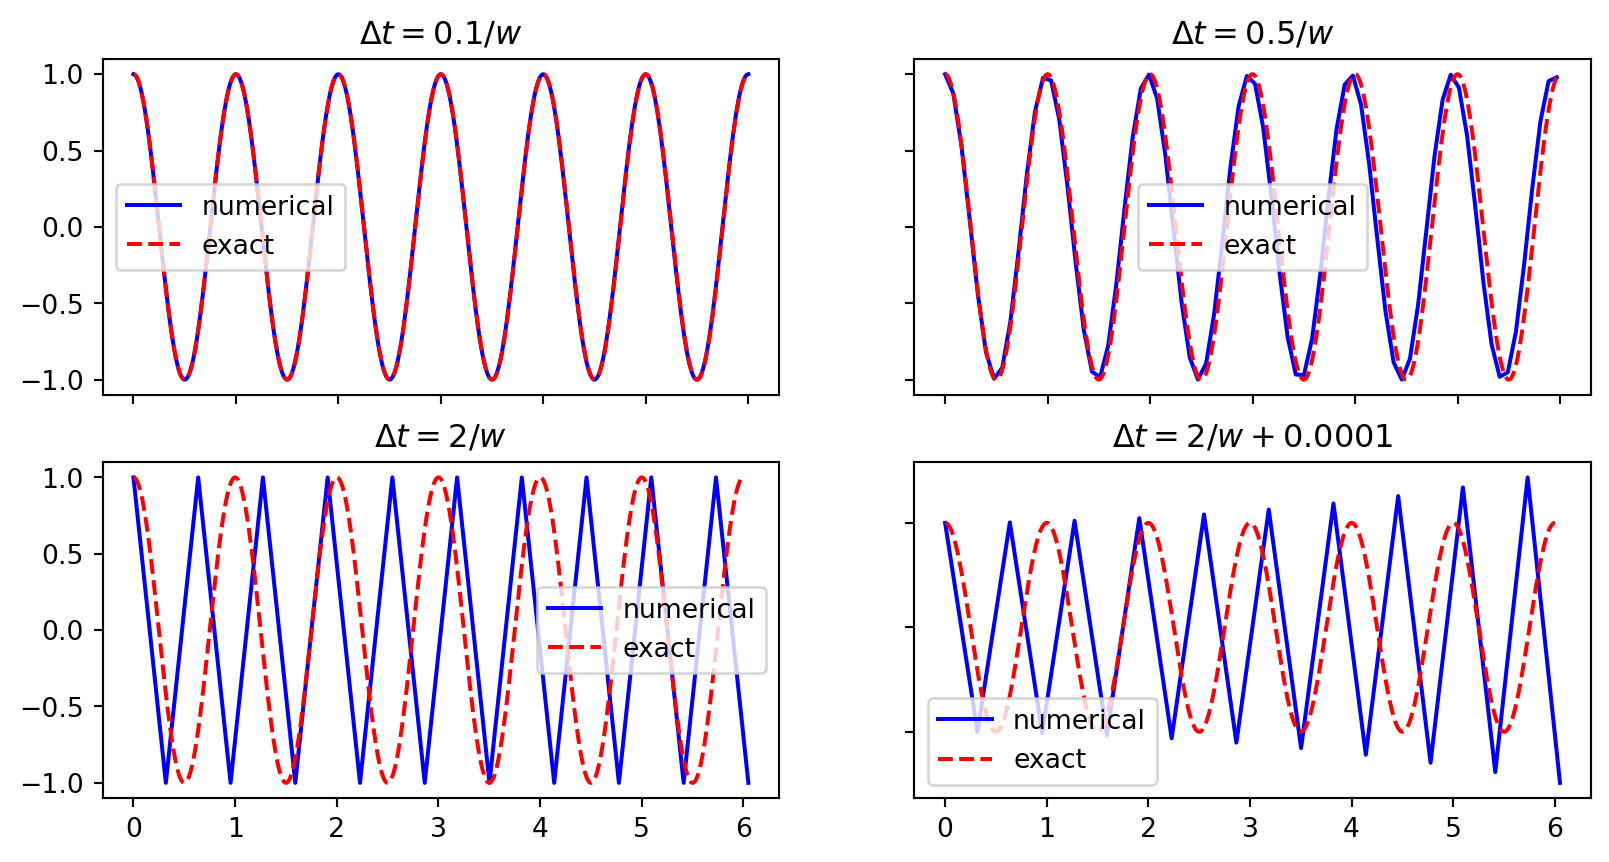
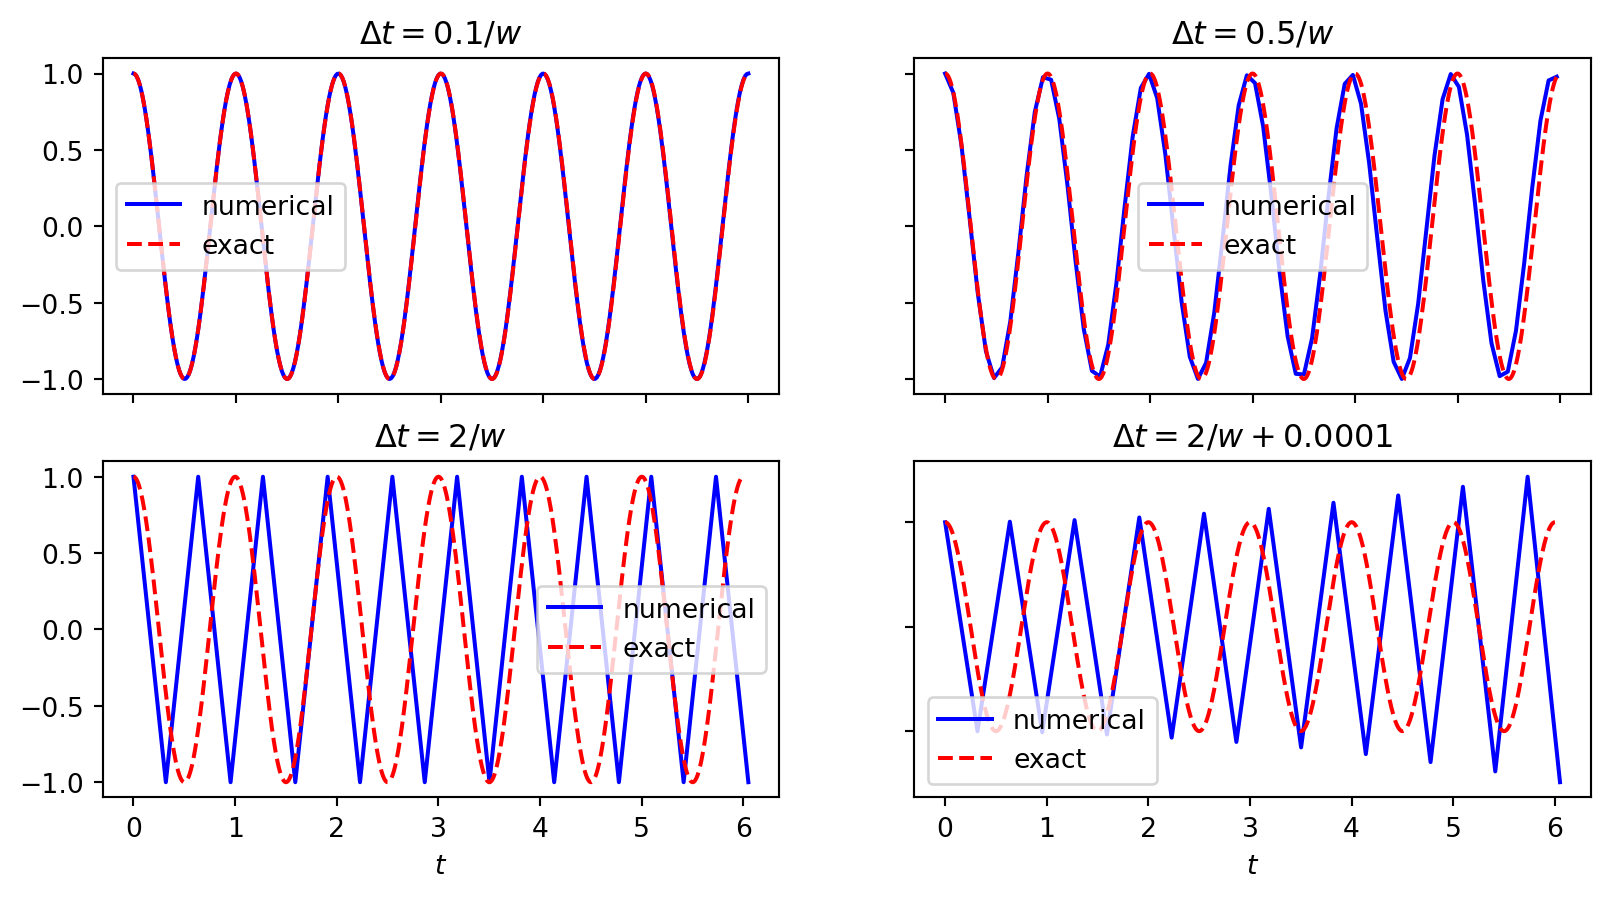
Update documentation

diff --git a/vibration.html b/vibration.html
@@ -537,7 +537,7 @@ u^1 = u^0 - \frac{1}{2} \Delta t^2 \omega^2 u^0
 </ul>
 <div class="fragment">
 <p>More precisely expressed in Python:</p>
-<div id="4ab1455f" class="cell" data-execution_count="2">
+<div id="13fe9b2e" class="cell" data-execution_count="2">
 <div class="sourceCode cell-code" id="cb1"><pre class="sourceCode numberSource python number-lines code-with-copy"><code class="sourceCode python"><span id="cb1-1"><a></a>T <span class="op">=</span> <span class="dv">1</span></span>
 <span id="cb1-2"><a></a>Nt <span class="op">=</span> <span class="dv">10</span></span>
 <span id="cb1-3"><a></a>I <span class="op">=</span> <span class="dv">1</span></span>
@@ -577,7 +577,7 @@ u^{\prime}(t_n) \approx \frac{u^{n+1}-u^{n-1}}{2\Delta t}
 </div>
 <div class="fragment">
 <p>With vectorization:</p>
-<div id="685ac5f0" class="cell" data-execution_count="3">
+<div id="a96015d1" class="cell" data-execution_count="3">
 <div class="sourceCode cell-code" id="cb2"><pre class="sourceCode numberSource python number-lines code-with-copy"><code class="sourceCode python"><span id="cb2-1"><a></a>du <span class="op">=</span> np.zeros(Nt<span class="op">+</span><span class="dv">1</span>)</span>
 <span id="cb2-2"><a></a>du[<span class="dv">1</span>:<span class="op">-</span><span class="dv">1</span>] <span class="op">=</span> (u[<span class="dv">2</span>:] <span class="op">-</span> u[:<span class="op">-</span><span class="dv">2</span>]) <span class="op">/</span> (<span class="dv">2</span><span class="op">*</span>dt)  <span class="co"># second order accurate</span></span>
 <span id="cb2-3"><a></a>du[<span class="dv">0</span>] <span class="op">=</span> <span class="dv">0</span>                             <span class="co"># exact from initial condition</span></span>
@@ -587,7 +587,7 @@ u^{\prime}(t_n) \approx \frac{u^{n+1}-u^{n-1}}{2\Delta t}
 </section>
 <section id="implementation" class="slide level2 smaller">
 <h2>Implementation</h2>
-<div id="471e41db" class="cell" data-execution_count="4">
+<div id="f4c2d1ae" class="cell" data-execution_count="4">
 <div class="sourceCode cell-code" id="cb3"><pre class="sourceCode numberSource python number-lines code-with-copy"><code class="sourceCode python"><span id="cb3-1"><a></a><span class="kw">def</span> solver(I, w, dt, T):</span>
 <span id="cb3-2"><a></a>    <span class="co">"""</span></span>
 <span id="cb3-3"><a></a><span class="co">    Solve u'' + w**2*u = 0 for t in (0,T], u(0)=I and u'(0)=0,</span></span>
@@ -610,7 +610,7 @@ u^{\prime}(t_n) \approx \frac{u^{n+1}-u^{n-1}}{2\Delta t}
 </section>
 <section id="visualization" class="slide level2 smaller">
 <h2>Visualization</h2>
-<div id="ba29ec6f" class="cell" data-execution_count="5">
+<div id="11592c68" class="cell" data-execution_count="5">
 <div class="sourceCode cell-code" id="cb4"><pre class="sourceCode numberSource python number-lines code-with-copy"><code class="sourceCode python"><span id="cb4-1"><a></a><span class="kw">def</span> visualize(u, t, I, w):</span>
 <span id="cb4-2"><a></a>    plt.plot(t, u, <span class="st">'r--o'</span>)</span>
 <span id="cb4-3"><a></a>    t_fine <span class="op">=</span> np.linspace(<span class="dv">0</span>, t[<span class="op">-</span><span class="dv">1</span>], <span class="dv">1001</span>)  <span class="co"># very fine mesh for u_e</span></span>
@@ -627,7 +627,7 @@ u^{\prime}(t_n) \approx \frac{u^{n+1}-u^{n-1}}{2\Delta t}
 </section>
 <section id="main-program" class="slide level2 smaller">
 <h2>Main program</h2>
-<div id="428ab104" class="cell" data-execution_count="6">
+<div id="92248da3" class="cell" data-execution_count="6">
 <div class="sourceCode cell-code" id="cb5"><pre class="sourceCode numberSource python number-lines code-with-copy"><code class="sourceCode python"><span id="cb5-1"><a></a>I <span class="op">=</span> <span class="dv">1</span></span>
 <span id="cb5-2"><a></a>w <span class="op">=</span> <span class="dv">2</span><span class="op">*</span>np.pi</span>
 <span id="cb5-3"><a></a>num_periods <span class="op">=</span> <span class="dv">6</span></span>
@@ -647,7 +647,7 @@ u^{\prime}(t_n) \approx \frac{u^{n+1}-u^{n-1}}{2\Delta t}
 </section>
 <section id="various-timestep" class="slide level2 smaller">
 <h2>Various timestep</h2>
-<div id="cd14b1d0" class="cell" data-execution_count="7">
+<div id="f30281df" class="cell" data-execution_count="7">
 <div class="cell-output cell-output-display">
 <div>
 <figure>
@@ -745,12 +745,12 @@ u(t_n) = I \cos (\tilde{\omega} t_n)
 <p>How good is the approximation <span class="math inline">\(\tilde{\omega} = \pm \frac{2}{\Delta t} \sin^{-1} \left( \frac{\omega  \Delta t }{2} \right)\)</span> ?</p>
 <div class="fragment">
 <p>We can easily use a Taylor series expansion for small <span class="math inline">\(h=\Delta t\)</span></p>
-<div id="69fba782" class="cell" data-execution_count="8">
+<div id="cc7eb690" class="cell" data-execution_count="8">
 <div class="sourceCode cell-code" id="cb6"><pre class="sourceCode numberSource python number-lines code-with-copy"><code class="sourceCode python"><span id="cb6-1"><a></a><span class="im">import</span> sympy <span class="im">as</span> sp </span>
 <span id="cb6-2"><a></a>h, w <span class="op">=</span> sp.symbols(<span class="st">'h,w'</span>)</span>
 <span id="cb6-3"><a></a>w_tilde <span class="op">=</span> sp.asin(w<span class="op">*</span>h<span class="op">/</span><span class="dv">2</span>).series(h, <span class="dv">0</span>, <span class="dv">4</span>)<span class="op">*</span><span class="dv">2</span><span class="op">/</span>h</span>
 <span id="cb6-4"><a></a>sp.simplify(w_tilde)</span></code><button title="Copy to Clipboard" class="code-copy-button"><i class="bi"></i></button></pre></div>
-<div class="cell-output cell-output-display cell-output-markdown" data-execution_count="8">
+<div class="cell-output cell-output-display cell-output-markdown" data-execution_count="83">
 <p><span class="math inline">\(\displaystyle w + \frac{h^{2} w^{3}}{24} + O\left(h^{3}\right)\)</span></p>
 </div>
 </div>
@@ -832,9 +832,9 @@ e^n = -2I\sin\left(n \Delta t\frac{1}{2}\left( \omega - \tilde\omega\right)\righ
 \]</span></p>
 <div class="fragment">
 <p>The limit can be computed using L’Hopital’s rule or simply by asking <code>sympy</code> or <a href="http://www.wolframalpha.com/input/?i=%282%2Fx%29*asin%28w*x%2F2%29+as+x-%3E0">WolframAlpha</a>. Sympy is easier:</p>
-<div id="5762c351" class="cell" data-execution_count="9">
+<div id="4a926fce" class="cell" data-execution_count="9">
 <div class="sourceCode cell-code" id="cb7"><pre class="sourceCode numberSource python number-lines code-with-copy"><code class="sourceCode python"><span id="cb7-1"><a></a>sp.limit((<span class="dv">2</span><span class="op">/</span>h)<span class="op">*</span>sp.asin(w<span class="op">*</span>h<span class="op">/</span><span class="dv">2</span>), h, <span class="dv">0</span>, <span class="bu">dir</span><span class="op">=</span><span class="st">'+'</span>)</span></code><button title="Copy to Clipboard" class="code-copy-button"><i class="bi"></i></button></pre></div>
-<div class="cell-output cell-output-display cell-output-markdown" data-execution_count="9">
+<div class="cell-output cell-output-display cell-output-markdown" data-execution_count="84">
 <p><span class="math inline">\(\displaystyle w\)</span></p>
 </div>
 </div>
@@ -864,10 +864,10 @@ e^n = -2I\sin\left(n \Delta t\frac{1}{2}\left( \omega - \tilde\omega\right)\righ
 <div class="column">
 <p>No! For <span class="math inline">\(\Im(y) &lt; 0\)</span> we have that <span class="math inline">\(|e^{iy}| &gt; 1\)</span>.</p>
 </div><div class="column">
-<div id="f459b108" class="cell" data-execution_count="10">
+<div id="ee062f77" class="cell" data-execution_count="10">
 <div class="sourceCode cell-code" id="cb8"><pre class="sourceCode numberSource python number-lines code-with-copy"><code class="sourceCode python"><span id="cb8-1"><a></a>y <span class="op">=</span> <span class="op">-</span><span class="ot">0.001j</span></span>
 <span id="cb8-2"><a></a><span class="bu">abs</span>(sp.exp(<span class="ot">1j</span><span class="op">*</span>y)) </span></code><button title="Copy to Clipboard" class="code-copy-button"><i class="bi"></i></button></pre></div>
-<div class="cell-output cell-output-display cell-output-markdown" data-execution_count="10">
+<div class="cell-output cell-output-display cell-output-markdown" data-execution_count="85">
 <p><span class="math inline">\(\displaystyle 1.00100050016671\)</span></p>
 </div>
 </div>
@@ -879,9 +879,9 @@ e^n = -2I\sin\left(n \Delta t\frac{1}{2}\left( \omega - \tilde\omega\right)\righ
 </div>
 <div class="fragment">
 <p>Yes! We can easily check that if <span class="math inline">\(|x|&gt;1\)</span> then <span class="math inline">\(\sin^{-1}(x)\)</span> has a negative imaginary part:</p>
-<div id="5223b96c" class="cell" data-execution_count="11">
+<div id="b34cca47" class="cell" data-execution_count="11">
 <div class="sourceCode cell-code" id="cb9"><pre class="sourceCode numberSource python number-lines code-with-copy"><code class="sourceCode python"><span id="cb9-1"><a></a>sp.asin(<span class="fl">1.01</span>)</span></code><button title="Copy to Clipboard" class="code-copy-button"><i class="bi"></i></button></pre></div>
-<div class="cell-output cell-output-display cell-output-markdown" data-execution_count="11">
+<div class="cell-output cell-output-display cell-output-markdown" data-execution_count="86">
 <p><span class="math inline">\(\displaystyle 1.5707963267949 - 0.141303769485649 i\)</span></p>
 </div>
 </div>
@@ -907,11 +907,11 @@ e^n = -2I\sin\left(n \Delta t\frac{1}{2}\left( \omega - \tilde\omega\right)\righ
 </section>
 <section id="remember-the-initial-plots" class="slide level2 smaller">
 <h2>Remember the initial plots</h2>
-<div id="8144a266" class="cell" data-execution_count="12">
+<div id="031c137f" class="cell" data-execution_count="12">
 <div class="cell-output cell-output-display">
 <div>
 <figure>
-<p><img data-src="vibration_files/figure-revealjs/cell-13-output-1.png" width="805" height="431"></p>
+<p><img data-src="vibration_files/figure-revealjs/cell-13-output-1.png" width="805" height="449"></p>
 </figure>
 </div>
 </div>
@@ -920,11 +920,11 @@ e^n = -2I\sin\left(n \Delta t\frac{1}{2}\left( \omega - \tilde\omega\right)\righ
 </section>
 <section id="about-the-stability-limit" class="slide level2 smaller">
 <h2>About the stability limit</h2>
-<div id="64d8c8df" class="cell" data-execution_count="13">
+<div id="a463cbf8" class="cell" data-execution_count="13">
 <div class="cell-output cell-output-display">
 <div>
 <figure>
-<p><img data-src="vibration_files/figure-revealjs/cell-14-output-1.png" width="813" height="431"></p>
+<p><img data-src="vibration_files/figure-revealjs/cell-14-output-1.png" width="813" height="449"></p>
 </figure>
 </div>
 </div>
@@ -966,11 +966,11 @@ A = 1 - \frac{p^2}{2} \pm \frac{p}{2}\sqrt{p^2-4}
 A &lt; -1
 \]</span></p>
 <p>Check:</p>
-<div id="f8235970" class="cell" data-execution_count="14">
+<div id="0a21842d" class="cell" data-execution_count="14">
 <div class="sourceCode cell-code" id="cb10"><pre class="sourceCode numberSource python number-lines code-with-copy"><code class="sourceCode python"><span id="cb10-1"><a></a>p <span class="op">=</span> sp.Symbol(<span class="st">'p'</span>) </span>
 <span id="cb10-2"><a></a>f <span class="op">=</span> <span class="dv">1</span> <span class="op">-</span> p<span class="op">**</span><span class="dv">2</span><span class="op">/</span><span class="dv">2</span> <span class="op">-</span> p<span class="op">/</span><span class="dv">2</span><span class="op">*</span>sp.sqrt(p<span class="op">**</span><span class="dv">2</span><span class="op">-</span><span class="dv">4</span>)</span>
 <span id="cb10-3"><a></a>f.subs(p, <span class="fl">2.01</span>).n() </span></code><button title="Copy to Clipboard" class="code-copy-button"><i class="bi"></i></button></pre></div>
-<div class="cell-output cell-output-display cell-output-markdown" data-execution_count="14">
+<div class="cell-output cell-output-display cell-output-markdown" data-execution_count="89">
 <p><span class="math inline">\(\displaystyle -1.22130109316473\)</span></p>
 </div>
 </div>
@@ -1022,12 +1022,11 @@ A &lt; -1
 <p>We can draw three important conclusions:</p>
 <div>
 <ul>
-<li class="fragment">The key parameter in the formulas is <span class="math inline">\(p=\omega\Delta t\)</span> (dimensionless)
+<li class="fragment">The key parameter in the formulas is <span class="math inline">\(p=\omega\Delta t\)</span> or <span class="math inline">\(\tilde{p} = \tilde{\omega} \Delta t\)</span> (dimensionless)
 <ul>
-<li class="fragment">Period of oscillations: <span class="math inline">\(P=2\pi/\omega\)</span></li>
-<li class="fragment">Number of time steps per period: <span class="math inline">\(N_P=P/\Delta t\)</span></li>
-<li class="fragment"><span class="math inline">\(\Rightarrow\ p=\omega\Delta t = 2\pi/ N_P \sim 1/N_P\)</span> so the critical parameter is really the number of time steps per period.</li>
-<li class="fragment">The smallest possible <span class="math inline">\(N_P\)</span> is 2 <span class="math inline">\(\Rightarrow\)</span> <span class="math inline">\(p\in (0,\pi]\)</span></li>
+<li class="fragment">Period of oscillations: <span class="math inline">\(P=2\pi/\omega\)</span> vs numerical <span class="math inline">\(\tilde{P}=2 \pi / \tilde{\omega}\)</span></li>
+<li class="fragment">Number of time steps per period: <span class="math inline">\(N_P=P/\Delta t\)</span> vs <span class="math inline">\(\tilde{N}_P =\tilde{P}/\Delta t\)</span></li>
+<li class="fragment">At stability limit <span class="math inline">\(\omega = 2/\Delta t\)</span> and <span class="math inline">\(\tilde{\omega}=\pi/\Delta t\)</span> <span class="math inline">\(\Rightarrow P = \pi \Delta t\)</span> and <span class="math inline">\(\tilde{P} = 2 \Delta t\)</span>. We get <span class="math inline">\(\tilde{N}_P = \tilde{P}/\Delta t = 2\)</span> and the critical parameter is really the number of time steps per numerical period.</li>
 </ul></li>
 <li class="fragment">For <span class="math inline">\(p\leq 2\)</span> the amplitude of <span class="math inline">\(u^n\)</span> is constant (stable solution)</li>
 <li class="fragment"><span class="math inline">\(u^n\)</span> has a relative frequency error <span class="math inline">\(\tilde\omega/\omega \approx 1 + \frac{1}{24}p^2\)</span>, making numerical peaks occur too early. This is also called a <strong>phase error</strong>, or a <strong>dispersive error</strong>.</li>
@@ -1037,7 +1036,7 @@ A &lt; -1
 <section id="convergence-rates" class="slide level2 smaller">
 <h2>Convergence rates</h2>
 <p>Lets compute the convergence rate for our solver. However, let it also be possible to choose the numerical frequency <span class="math inline">\(\omega(1-\omega^2\Delta t^2/24)\)</span></p>
-<div id="fb970171" class="cell" data-execution_count="15">
+<div id="7c8a6466" class="cell" data-execution_count="15">
 <div class="sourceCode cell-code" id="cb11"><pre class="sourceCode numberSource python number-lines code-with-copy"><code class="sourceCode python"><span id="cb11-1"><a></a><span class="kw">def</span> solver_adjust(I, w, dt, T, adjust_w<span class="op">=</span><span class="va">False</span>):</span>
 <span id="cb11-2"><a></a>    Nt <span class="op">=</span> <span class="bu">int</span>(T<span class="op">/</span>dt)</span>
 <span id="cb11-3"><a></a>    u <span class="op">=</span> np.zeros(Nt<span class="op">+</span><span class="dv">1</span>)</span>
@@ -1064,7 +1063,7 @@ A &lt; -1
 <p><span class="math display">\[
 r = \frac{\log {\frac{E_{i-1}}{E_i}}}{\log {\frac{\Delta t_{i-1}}{\Delta t_i}}}
 \]</span></p>
-<div id="7de81293" class="cell" data-execution_count="16">
+<div id="60525858" class="cell" data-execution_count="16">
 <div class="sourceCode cell-code" id="cb12"><pre class="sourceCode numberSource python number-lines code-with-copy"><code class="sourceCode python"><span id="cb12-1"><a></a><span class="kw">def</span> convergence_rates(m, num_periods<span class="op">=</span><span class="dv">8</span>, w<span class="op">=</span><span class="fl">0.35</span>, I<span class="op">=</span><span class="fl">0.3</span>, adjust_w<span class="op">=</span><span class="va">False</span>):</span>
 <span id="cb12-2"><a></a>    P <span class="op">=</span> <span class="dv">2</span><span class="op">*</span>np.pi<span class="op">/</span>w</span>
 <span id="cb12-3"><a></a>    dt <span class="op">=</span> <span class="dv">2</span> <span class="op">/</span> w    <span class="co"># Initial dt is maximum time step for stability</span></span>
@@ -1085,9 +1084,9 @@ r = \frac{\log {\frac{E_{i-1}}{E_i}}}{\log {\frac{\Delta t_{i-1}}{\Delta t_i}}}
 <section id="try-it" class="slide level2 smaller">
 <h2>Try it!</h2>
 <p>Print the computed convergence rates</p>
-<div id="96f06106" class="cell" data-execution_count="17">
+<div id="7437621c" class="cell" data-execution_count="17">
 <div class="sourceCode cell-code" id="cb13"><pre class="sourceCode numberSource python number-lines code-with-copy"><code class="sourceCode python"><span id="cb13-1"><a></a>convergence_rates(<span class="dv">5</span>, w<span class="op">=</span><span class="fl">0.5</span>, I<span class="op">=</span><span class="dv">1</span>)[<span class="dv">0</span>]</span></code><button title="Copy to Clipboard" class="code-copy-button"><i class="bi"></i></button></pre></div>
-<div class="cell-output cell-output-display" data-execution_count="17">
+<div class="cell-output cell-output-display" data-execution_count="92">
 <pre><code>[0.5812225474381454,
  1.9588768683386732,
  2.0128151185701406,
@@ -1095,16 +1094,16 @@ r = \frac{\log {\frac{E_{i-1}}{E_i}}}{\log {\frac{\Delta t_{i-1}}{\Delta t_i}}}
 </div>
 </div>
 <p>Adjusted solver:</p>
-<div id="8c9fe57d" class="cell" data-execution_count="18">
+<div id="d4ba9a66" class="cell" data-execution_count="18">
 <div class="sourceCode cell-code" id="cb15"><pre class="sourceCode numberSource python number-lines code-with-copy"><code class="sourceCode python"><span id="cb15-1"><a></a>convergence_rates(<span class="dv">5</span>, w<span class="op">=</span><span class="fl">0.5</span>, I<span class="op">=</span><span class="dv">1</span>, adjust_w<span class="op">=</span><span class="va">True</span>)[<span class="dv">0</span>]</span></code><button title="Copy to Clipboard" class="code-copy-button"><i class="bi"></i></button></pre></div>
-<div class="cell-output cell-output-display" data-execution_count="18">
+<div class="cell-output cell-output-display" data-execution_count="93">
 <pre><code>[4.639514498646321, 4.135402053048683, 4.032727110521893, 4.008071155725109]</code></pre>
 </div>
 </div>
 </section>
 <section id="plot-convergence-regular-solver" class="slide level2 smaller">
 <h2>plot convergence regular solver</h2>
-<div id="d2ac41aa" class="cell" data-execution_count="19">
+<div id="21550db9" class="cell" data-execution_count="19">
 <div class="sourceCode cell-code" id="cb17"><pre class="sourceCode numberSource python number-lines code-with-copy"><code class="sourceCode python"><span id="cb17-1"><a></a><span class="im">from</span> plotslopes <span class="im">import</span> slope_marker</span>
 <span id="cb17-2"><a></a>r, E, dt <span class="op">=</span> convergence_rates(<span class="dv">5</span>)</span>
 <span id="cb17-3"><a></a>plt.loglog(dt, E, dt, dt, dt, np.array(dt)<span class="op">**</span><span class="dv">2</span>)</span>
@@ -1124,7 +1123,7 @@ r = \frac{\log {\frac{E_{i-1}}{E_i}}}{\log {\frac{\Delta t_{i-1}}{\Delta t_i}}}
 </section>
 <section id="plot-convergence-adjusted-solver" class="slide level2 smaller">
 <h2>plot convergence adjusted solver</h2>
-<div id="74a3c456" class="cell" data-execution_count="20">
+<div id="a139d6dd" class="cell" data-execution_count="20">
 <div class="sourceCode cell-code" id="cb18"><pre class="sourceCode numberSource python number-lines code-with-copy"><code class="sourceCode python"><span id="cb18-1"><a></a><span class="im">from</span> plotslopes <span class="im">import</span> slope_marker</span>
 <span id="cb18-2"><a></a>r, E, dt <span class="op">=</span> convergence_rates(<span class="dv">5</span>, adjust_w<span class="op">=</span><span class="va">True</span>)</span>
 <span id="cb18-3"><a></a>plt.loglog(dt, E, dt, np.array(dt)<span class="op">**</span><span class="dv">4</span>)</span>
@@ -1144,7 +1143,7 @@ r = \frac{\log {\frac{E_{i-1}}{E_i}}}{\log {\frac{\Delta t_{i-1}}{\Delta t_i}}}
 <section id="add-tests" class="slide level2 smaller">
 <h2>Add tests</h2>
 <p>The exact solution will not equal the numerical, but the order of the error is something we can test for.</p>
-<div id="b7e28a6b" class="cell" data-execution_count="21">
+<div id="1755a7c7" class="cell" data-execution_count="21">
 <div class="sourceCode cell-code" id="cb19"><pre class="sourceCode numberSource python number-lines code-with-copy"><code class="sourceCode python"><span id="cb19-1"><a></a><span class="kw">def</span> test_order(m, w<span class="op">=</span><span class="dv">1</span>, I<span class="op">=</span><span class="dv">1</span>, adjust_w<span class="op">=</span><span class="va">False</span>):</span>
 <span id="cb19-2"><a></a>    r, E, dt <span class="op">=</span> convergence_rates(m, w<span class="op">=</span>w, I<span class="op">=</span>I, adjust_w<span class="op">=</span>adjust_w)</span>
 <span id="cb19-3"><a></a>    true_order <span class="op">=</span> <span class="dv">4</span> <span class="cf">if</span> adjust_w <span class="cf">else</span> <span class="dv">2</span></span>
@@ -1157,7 +1156,7 @@ r = \frac{\log {\frac{E_{i-1}}{E_i}}}{\log {\frac{\Delta t_{i-1}}{\Delta t_i}}}
 </div>
 <div class="fragment">
 <p>Run test for <span class="math inline">\(m=4\)</span> levels, <span class="math inline">\(w=0.5, I=1\)</span> and <code>adjust_w=False</code></p>
-<div id="6ba33f52" class="cell" data-execution_count="22">
+<div id="fdfb64ed" class="cell" data-execution_count="22">
 <div class="sourceCode cell-code" id="cb20"><pre class="sourceCode numberSource python number-lines code-with-copy"><code class="sourceCode python"><span id="cb20-1"><a></a>test_order(<span class="dv">4</span>, w<span class="op">=</span><span class="fl">0.5</span>, I<span class="op">=</span><span class="dv">1</span>, adjust_w<span class="op">=</span><span class="va">False</span>)</span></code><button title="Copy to Clipboard" class="code-copy-button"><i class="bi"></i></button></pre></div>
 <div class="cell-output cell-output-stdout">
 <pre><code>Test failed!! orders = [0.5812225474381454, 1.9588768683386732, 2.0128151185701406]</code></pre>
@@ -1166,13 +1165,13 @@ r = \frac{\log {\frac{E_{i-1}}{E_i}}}{\log {\frac{\Delta t_{i-1}}{\Delta t_i}}}
 </div>
 <div class="fragment">
 <p>Test fails. Try one more level</p>
-<div id="ff013098" class="cell" data-execution_count="23">
+<div id="5d044cbd" class="cell" data-execution_count="23">
 <div class="sourceCode cell-code" id="cb22"><pre class="sourceCode numberSource python number-lines code-with-copy"><code class="sourceCode python"><span id="cb22-1"><a></a>test_order(<span class="dv">5</span>, w<span class="op">=</span><span class="fl">0.5</span>, I<span class="op">=</span><span class="dv">1</span>, adjust_w<span class="op">=</span><span class="va">False</span>)</span></code><button title="Copy to Clipboard" class="code-copy-button"><i class="bi"></i></button></pre></div>
 <div class="cell-output cell-output-stdout">
 <pre><code>Test passed!!</code></pre>
 </div>
 </div>
-<div id="ccab5c8b" class="cell" data-execution_count="24">
+<div id="e91ca358" class="cell" data-execution_count="24">
 <div class="sourceCode cell-code" id="cb24"><pre class="sourceCode numberSource python number-lines code-with-copy"><code class="sourceCode python"><span id="cb24-1"><a></a>test_order(<span class="dv">5</span>, w<span class="op">=</span><span class="fl">0.5</span>, I<span class="op">=</span><span class="dv">1</span>, adjust_w<span class="op">=</span><span class="va">True</span>)</span></code><button title="Copy to Clipboard" class="code-copy-button"><i class="bi"></i></button></pre></div>
 <div class="cell-output cell-output-stdout">
 <pre><code>Test passed!!</code></pre>
@@ -1183,7 +1182,7 @@ r = \frac{\log {\frac{E_{i-1}}{E_i}}}{\log {\frac{\Delta t_{i-1}}{\Delta t_i}}}
 <section id="final-test" class="slide level2 smaller">
 <h2>Final test</h2>
 <p>Use simply an assert clause and do not catch the error.</p>
-<div id="f93369e6" class="cell" data-execution_count="25">
+<div id="b4caec33" class="cell" data-execution_count="25">
 <div class="sourceCode cell-code" id="cb26"><pre class="sourceCode numberSource python number-lines code-with-copy"><code class="sourceCode python"><span id="cb26-1"><a></a><span class="kw">def</span> test_order(m, w<span class="op">=</span><span class="dv">1</span>, I<span class="op">=</span><span class="dv">1</span>, adjust_w<span class="op">=</span><span class="va">False</span>):</span>
 <span id="cb26-2"><a></a>    r, E, dt <span class="op">=</span> convergence_rates(m, w<span class="op">=</span>w, I<span class="op">=</span>I, adjust_w<span class="op">=</span>adjust_w)</span>
 <span id="cb26-3"><a></a>    true_order <span class="op">=</span> <span class="dv">4</span> <span class="cf">if</span> adjust_w <span class="cf">else</span> <span class="dv">2</span></span>
